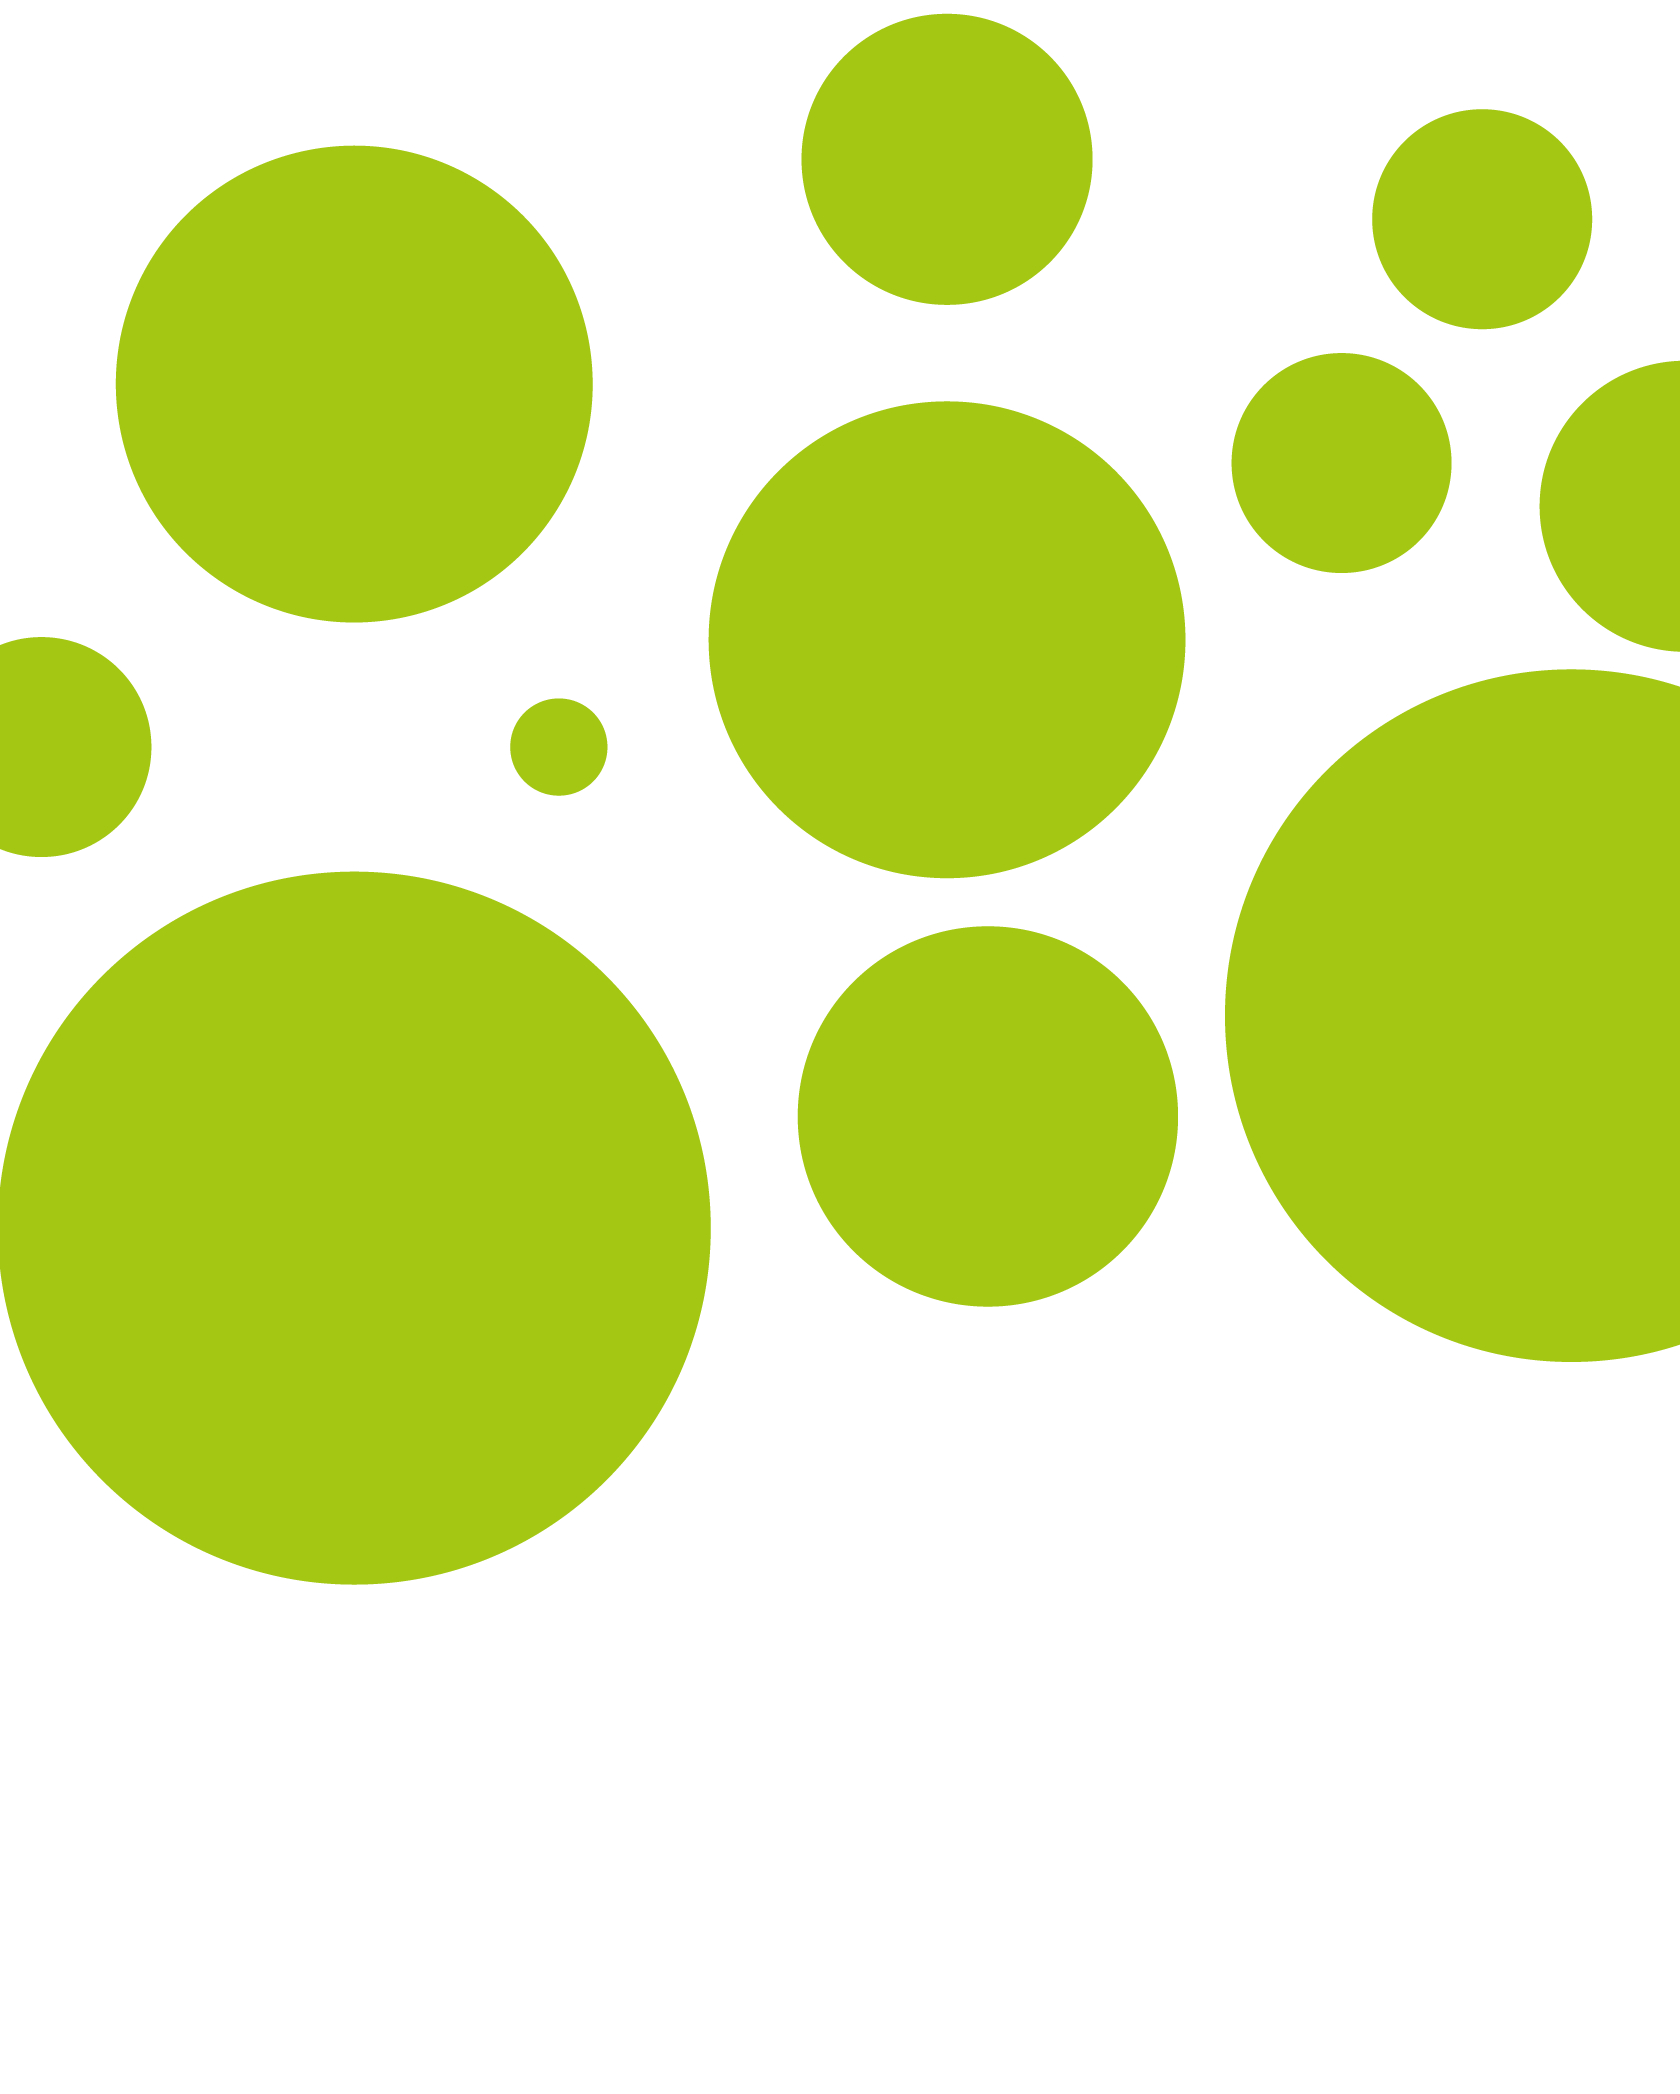
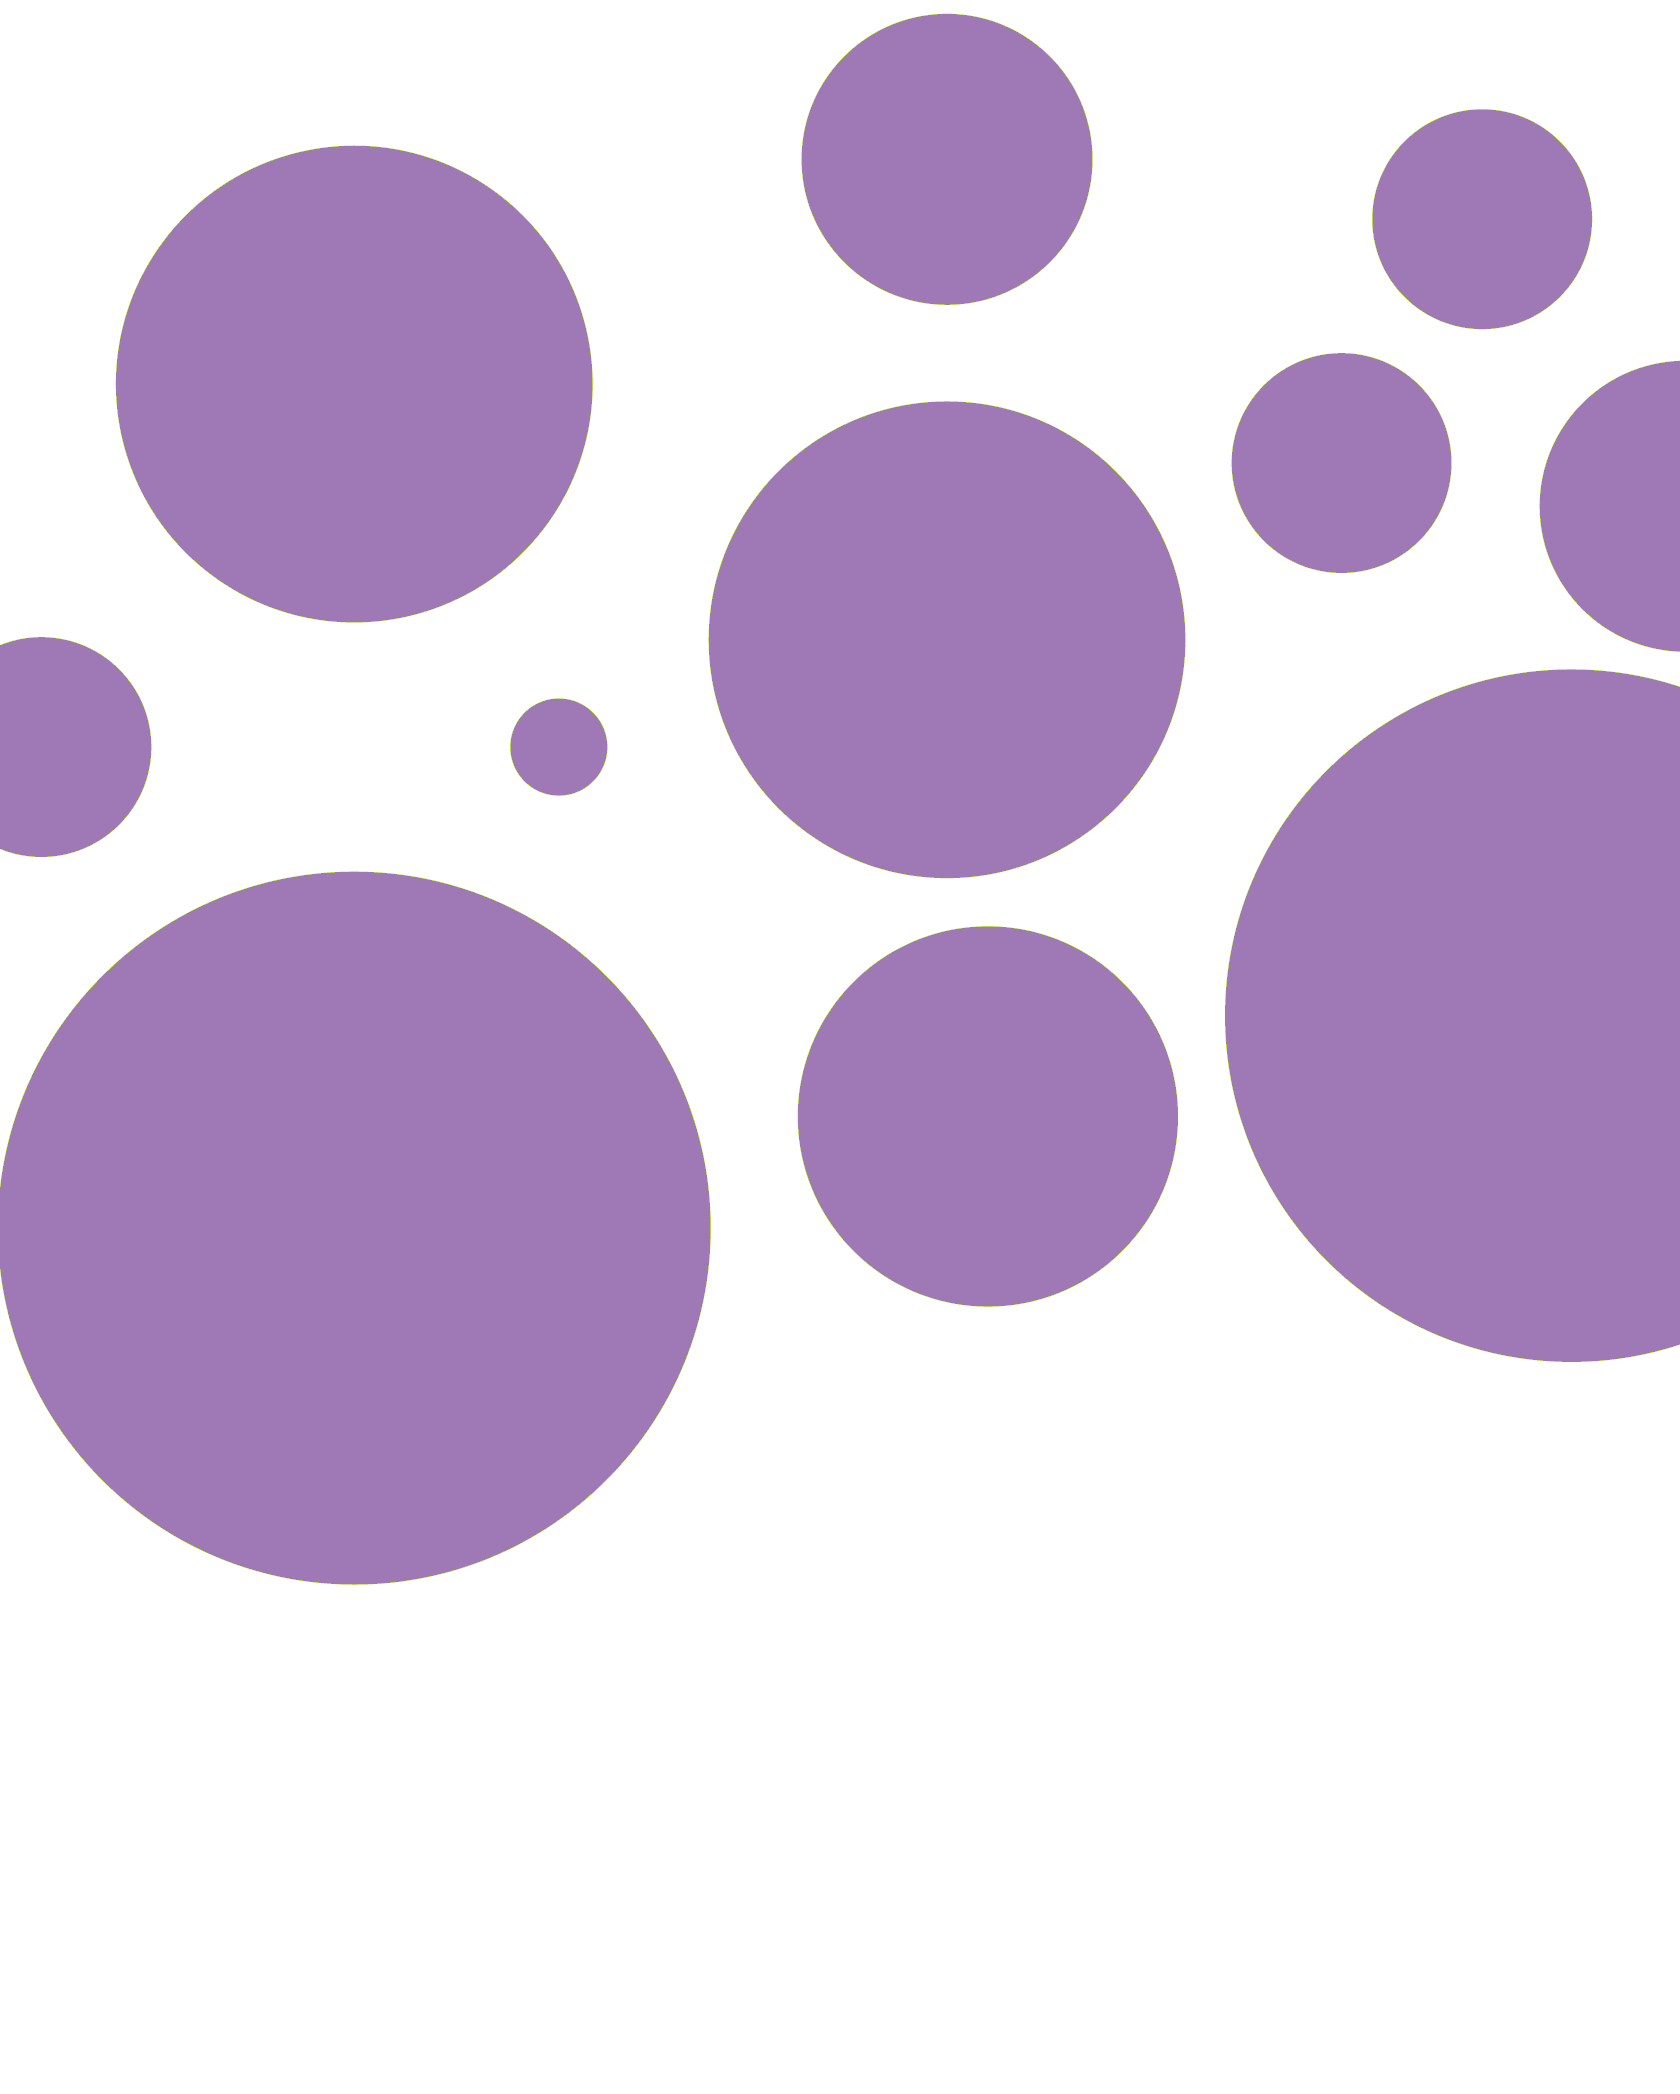
gallery-page styling

diff --git a/pages/gallery.js b/pages/gallery.js
@@ -3,17 +3,17 @@ import Head from "next/head";
 import Image from "next/image";
 import Link from "next/link";
 import styles from "../styles/Home.module.scss";
-import { Row, Card}  from "react-bootstrap";
+import { Container, Row, Card } from "react-bootstrap";
 import Col from "react-bootstrap/Col";
 import { gql, useQuery } from "@apollo/client";
-import Lightbox from 'react-18-image-lightbox';
-import 'react-18-image-lightbox/style.css';
+import Lightbox from "react-18-image-lightbox";
+import "react-18-image-lightbox/style.css";
 import { ApolloClient, InMemoryCache } from "@apollo/client";
 
 // graphql api client
 const client = new ApolloClient({
-    uri: 'http://95.111.250.248:1337/graphql',
-    cache: new InMemoryCache(),
+  uri: "http://95.111.250.248:1337/graphql",
+  cache: new InMemoryCache(),
 });
 
 // image component that can maximise the image
@@ -22,42 +22,49 @@ const ImageLightbox = ({ url, className }) => {
 
   return (
     <div>
-      <Link legacyBehavior={false} href="#" onClick={() => setIsOpen(true)}>
-        <img src={url} alt="VR screenshot" className={className} />
+      <Link legacyBehavior={false} href='#' onClick={() => setIsOpen(true)}>
+        <img src={url} alt='VR screenshot' className={className} />
       </Link>
 
-      {isOpen && <Lightbox animationDisabled mainSrc={url} onCloseRequest={() => setIsOpen(false)} />}
+      {isOpen && (
+        <Lightbox
+          animationDisabled
+          mainSrc={url}
+          onCloseRequest={() => setIsOpen(false)}
+        />
+      )}
     </div>
   );
 };
 
 // query
 const ALL_SCREENSHOTS_QUERY = gql`
-query allScreenshots {
-  screenshots(sort: "createdAt:DESC") {
-    data {
-      id
-      attributes {
-        url
-        authorName
-        createdAt
-        upvoteCount
+  query allScreenshots {
+    screenshots(sort: "createdAt:DESC") {
+      data {
+        id
+        attributes {
+          url
+          authorName
+          createdAt
+          upvoteCount
+        }
       }
     }
   }
-}`
+`;
 
 // whole page component
 export default function Home() {
   const { loading, data } = useQuery(ALL_SCREENSHOTS_QUERY, {
     client: client,
-    pollInterval: 3000
+    pollInterval: 3000,
   });
 
   if (loading) {
-    return <div></div>
+    return <div></div>;
   }
-  
+
   return (
     <div className={styles.gallery}>
       <Head>
@@ -72,32 +79,37 @@ export default function Home() {
         <link rel='icon' href='/favicon.ico' />
       </Head>
 
-      <h1 className={styles.title}>Gallery</h1>
-      <div className="mt-4">
+      <h1 className={styles.title}>Galerie</h1>
+      <Container>
         <Row>
           {data.screenshots.data.map((singleScreenshot, index) => (
-            <Col className="col-12 col-sm-4" key={singleScreenshot.attributes.url + index}>
-              <Card className="ml-4">
-                <div className="position-relative">
+            <Col
+              className='col-12 col-sm-4 gallery-pic'
+              key={singleScreenshot.attributes.url + index}>
+              <Card className='ml-4'>
+                <div className='position-relative'>
                   <ImageLightbox
                     url={singleScreenshot.attributes.url}
-                    className="responsive border-0 card-img-top" />
+                    className='responsive border-0 card-img-top'
+                  />
                 </div>
-                <Card.Body className="pb-3 pt-3">
-                  <div className="font-weight-bold h5">
+                <Card.Body className='pb-3 pt-3'>
+                  <div className='font-weight-bold h5'>
                     {singleScreenshot.attributes.authorName}
                   </div>
-                  <div className="text-normal align-self-center">
-                    { Intl.DateTimeFormat(navigator.language, { weekday: 'long', hour: 'numeric', minute: 'numeric' })
-                      .format(new Date(singleScreenshot.attributes.createdAt))
-                    }
+                  <div className='text-normal align-self-center'>
+                    {Intl.DateTimeFormat(navigator.language, {
+                      weekday: "long",
+                      hour: "numeric",
+                      minute: "numeric",
+                    }).format(new Date(singleScreenshot.attributes.createdAt))}
                   </div>
                 </Card.Body>
               </Card>
             </Col>
           ))}
         </Row>
-      </div>
+      </Container>
     </div>
   );
 }

diff --git a/styles/Home.module.scss b/styles/Home.module.scss
@@ -11,14 +11,6 @@
   background-size: cover;
 }
 
-.gallery {
-  background-image: url("/2022-04-26_lala-Biennale_header-13-neu.png");
-  background-repeat: no-repeat;
-  background-position: center top;
-  background-attachment: scroll;
-  background-size: cover;
-}
-
 .main {
   height: 100%;
   padding: 20px 0;
@@ -140,4 +132,18 @@
 .nameForm {
   text-align: center;
   margin-top: 10%;
+}
+
+.gallery {
+  h1 {
+    color: $yellow_lala;
+    margin-bottom: 30px;
+  }
+  background-image: url("/2022-04-26_lala-Biennale_header-14-neu.png");
+  background-repeat: no-repeat;
+  background-position: center top;
+  background-attachment: scroll;
+  background-size: cover;
+  min-height: 100vh;
+  overflow-x: hidden;
 }

diff --git a/styles/globals.scss b/styles/globals.scss
@@ -76,3 +76,7 @@ input {
     background: #ffffff;
   }
 }
+
+.gallery-pic {
+  margin-bottom: 20px;
+}
